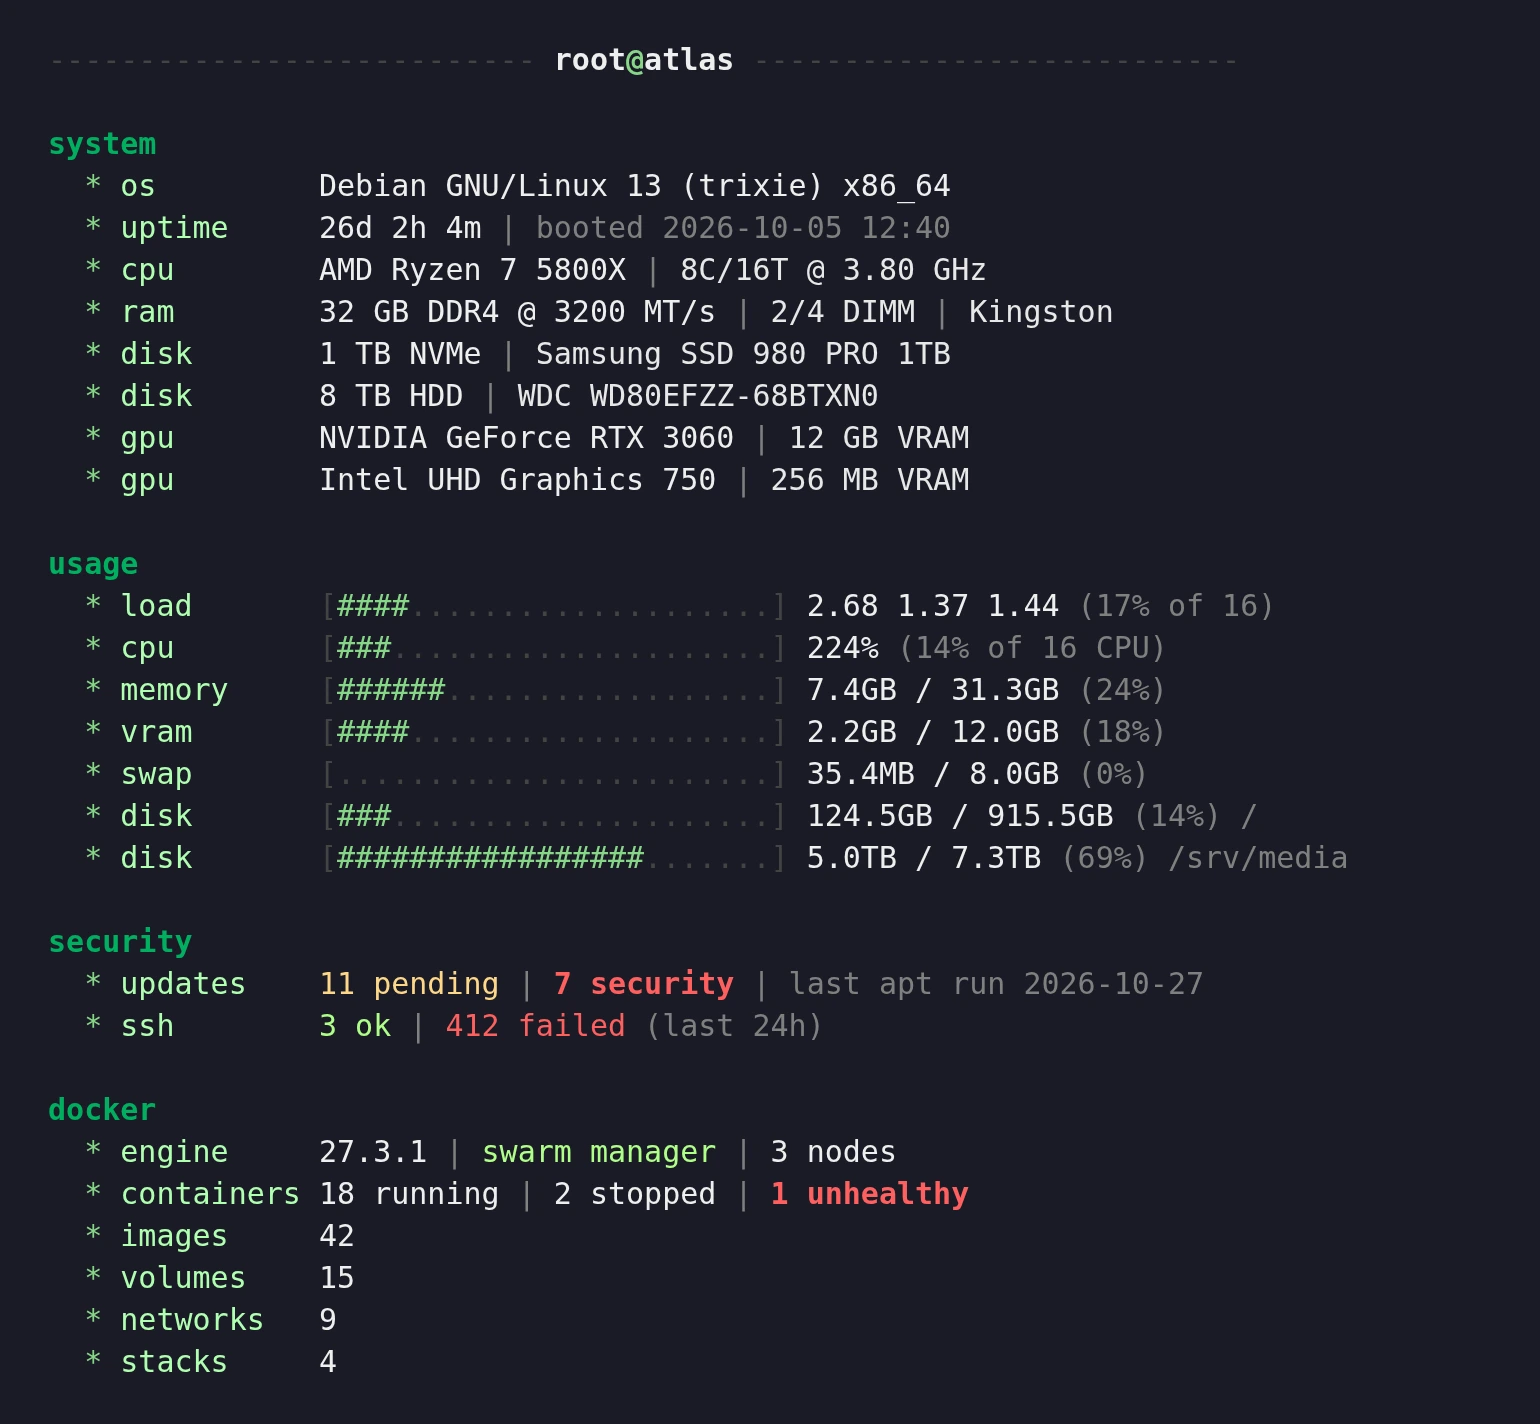
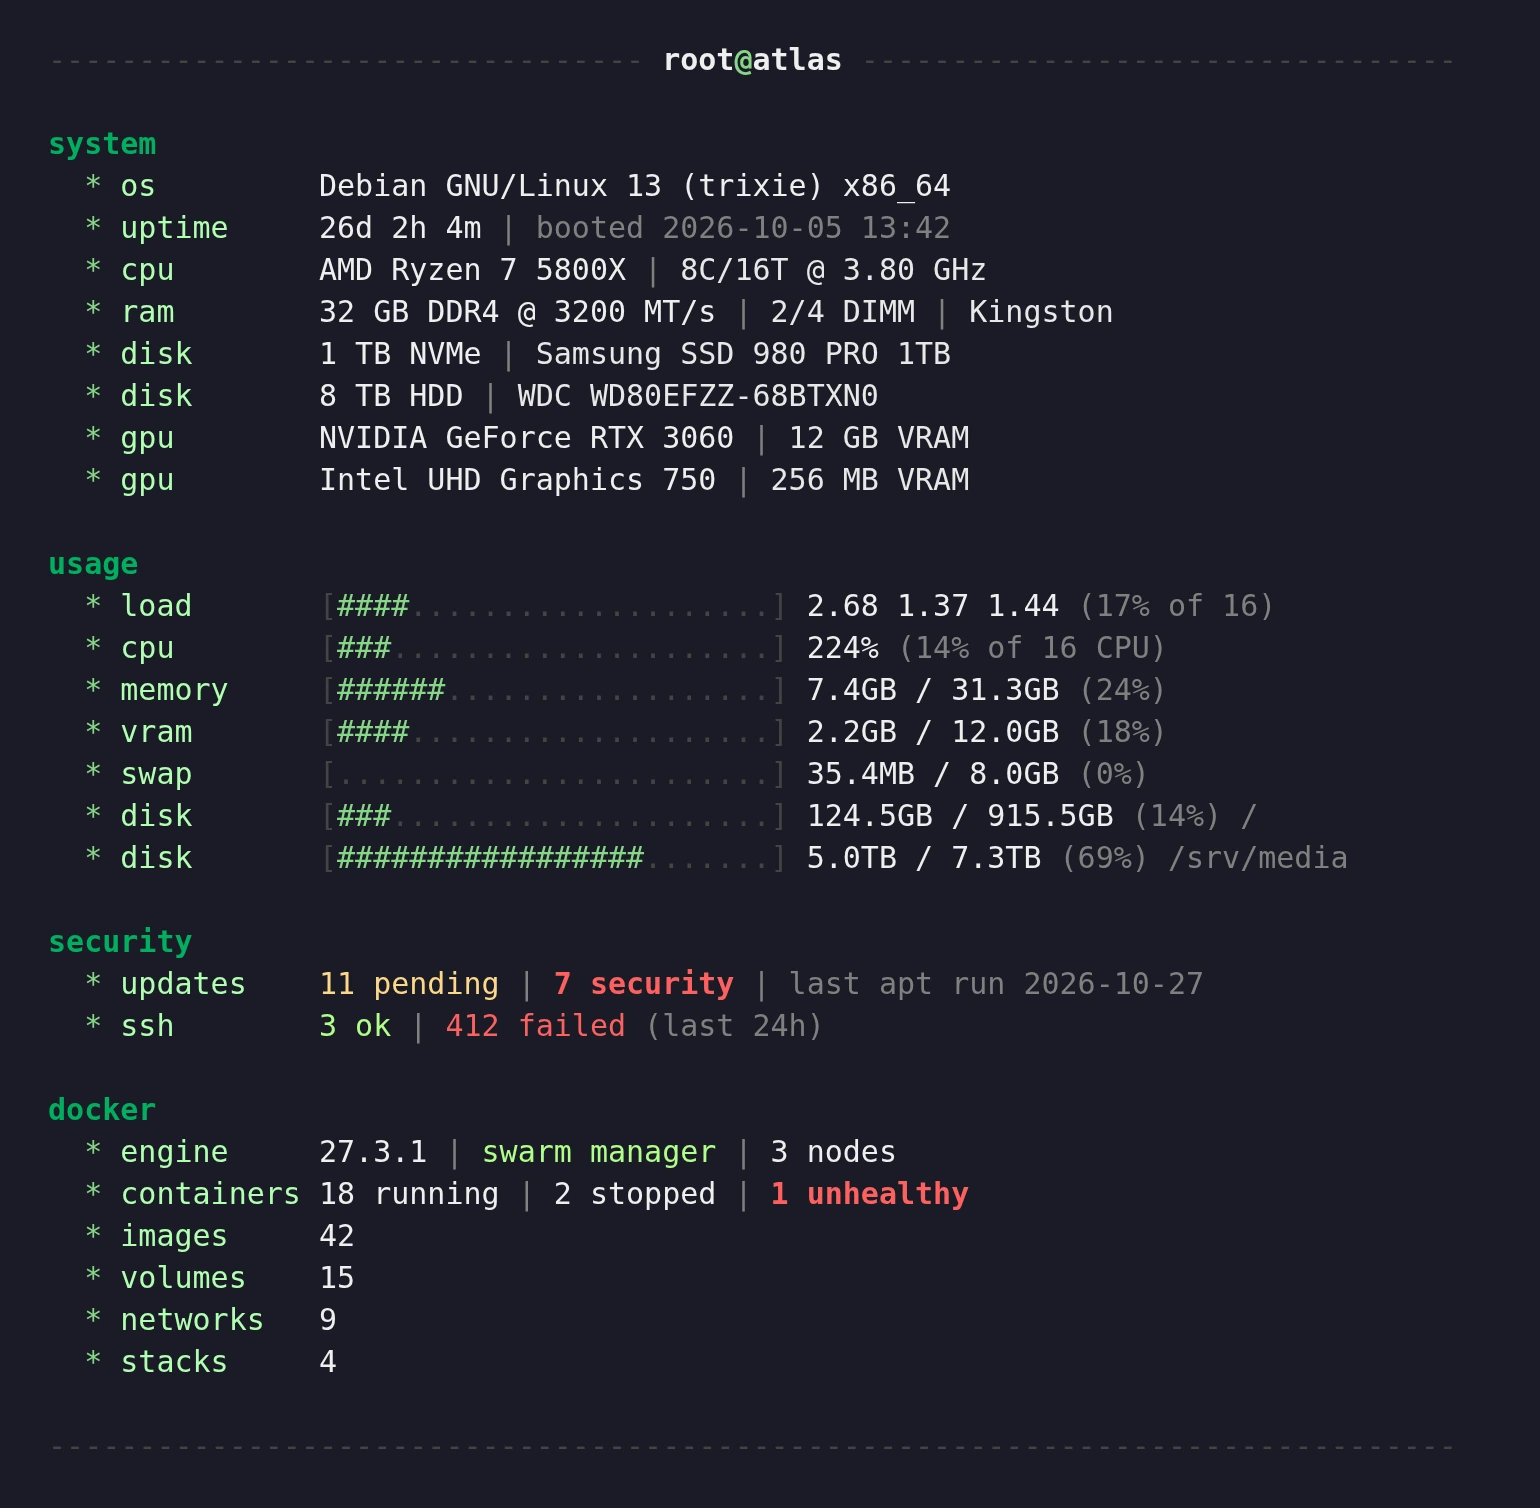
docs: lines of dashes, new previews

diff --git a/docs/how-it-works.md b/docs/how-it-works.md
@@ -66,7 +66,7 @@ When the `docker` command exists (and `DOCKER` is not `off`), the timer asks the
 
 ## Width
 
-In a terminal narrower than `WIDTH` (its size from `stty`, else `COLUMNS`), the header takes the terminal's width, the bars shrink (down to 6 characters) and each line longer than the terminal is cut with `...`, colours kept.
+The lines of dashes at the top (around `user@host`) and at the bottom take the whole width of the terminal (its size from `stty`, else `COLUMNS`; `WIDTH` when neither is known). In a narrow terminal the bars shrink (down to 6 characters) and each line longer than the terminal is cut with `...`, colours kept.
 
 ## Login shells
 

diff --git a/docs/configuration.md b/docs/configuration.md
@@ -6,7 +6,7 @@
 THEME=pink        # pink, blue, green or orange (the screen and the prompt)
 SHOW="ssh"        # "ssh", or "ssh local" for every new local terminal too (install.sh --local)
 SSH_MODE=journal  # journal, private or off
-WIDTH=66          # width of the header line, in columns
+WIDTH=66          # lines of dashes when the terminal's width is unknown (else the whole terminal)
 DISKS=""          # mount points in the usage part; empty: every local data file system
 MAX_DISKS=6       # at most this many disk lines, the others counted on one line
 DOCKER=auto       # the docker part when docker is installed, or off
